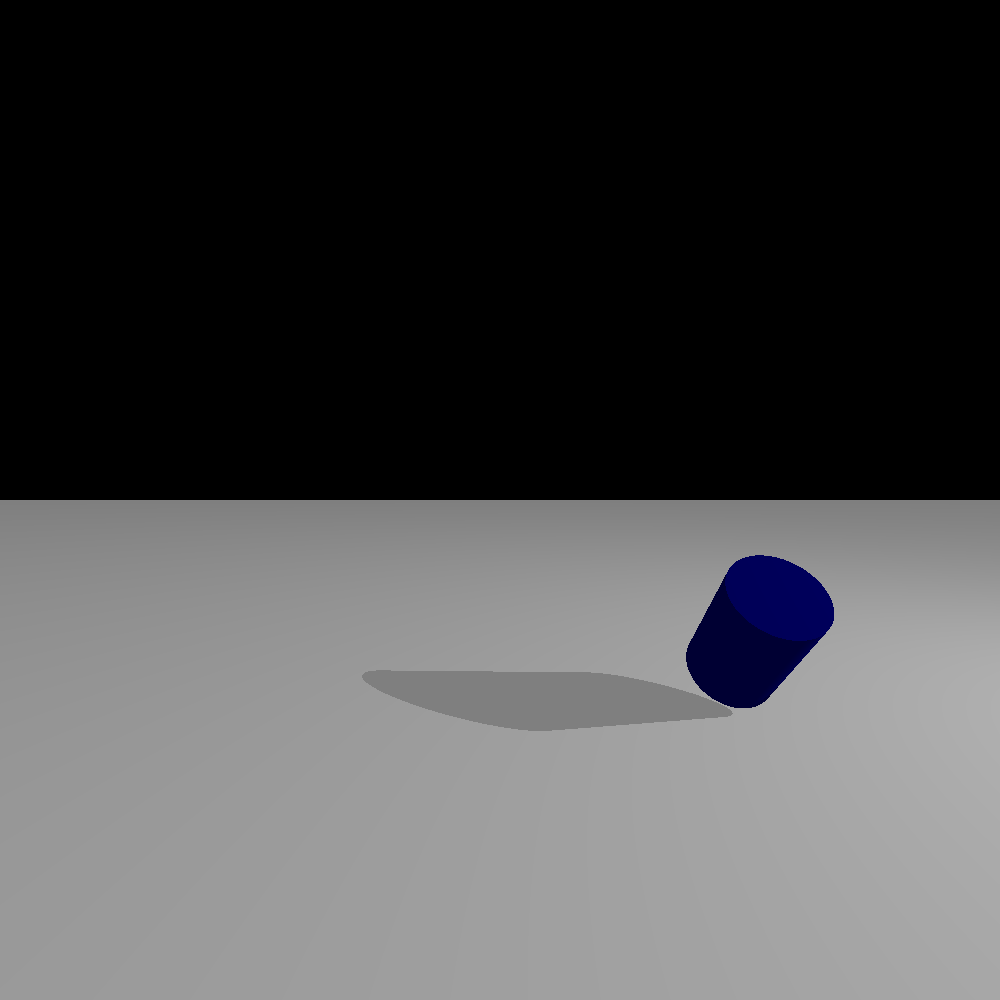
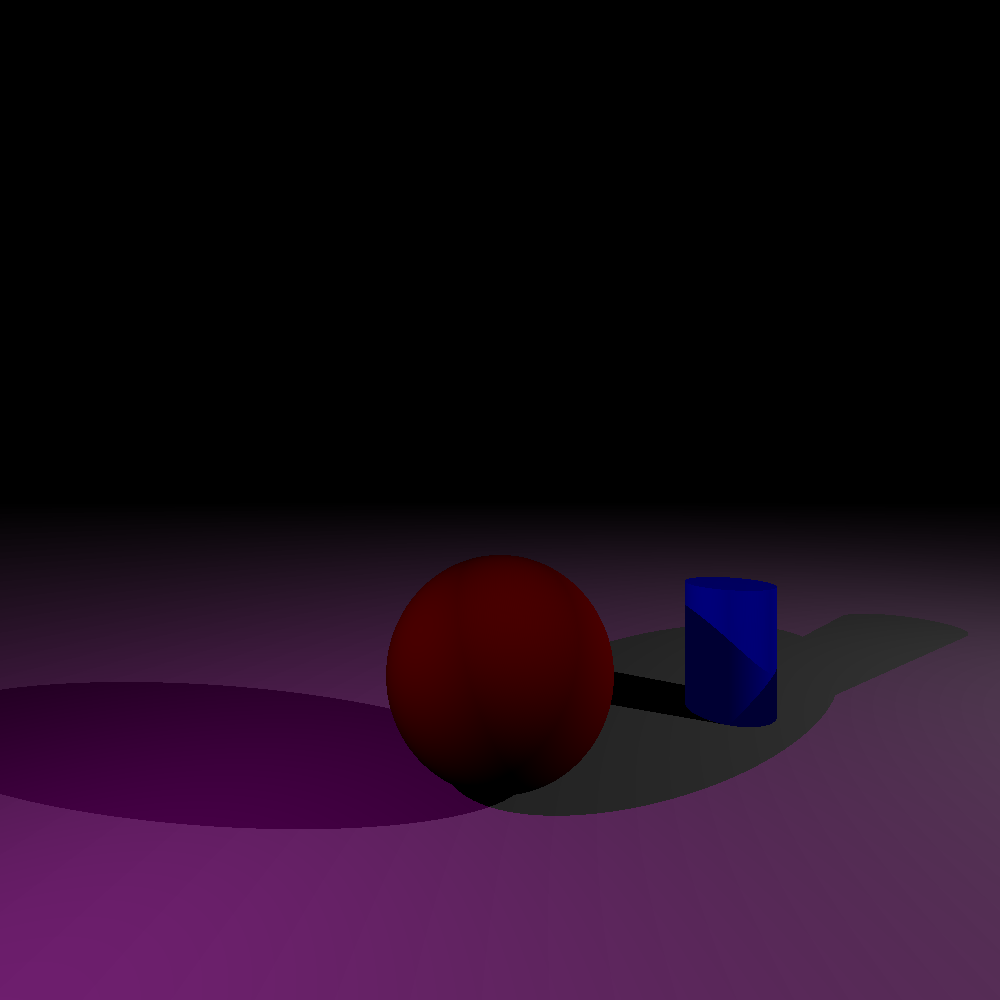
minor update

diff --git a/src/main/Renderer.java b/src/main/Renderer.java
@@ -94,7 +94,7 @@ public class Renderer {
 		// initialize the scene
 		Diffuse d1 = new Diffuse(0.9, 0.0, new Color(255, 0, 0));
 		Diffuse d2 = new Diffuse(0.9, 0.2, Color.BLUE);
-		Diffuse d3 = new Diffuse(0.9, 0.5, Color.white);
+		Diffuse d3 = new Diffuse(1, 0.0, Color.white);
 		Transformation id = Transformation.IDENTITY;
 		Transformation t1 = Transformation.createTranslation(0, -1, 1);
 		Transformation tc = Transformation.createTranslation(0, 0, 10).append(
@@ -105,12 +105,12 @@ public class Renderer {
 		Transformation t3 = Transformation.createTranslation(-4, -4, 3);
 		Transformation t4 = Transformation.createTranslation(4, 4, 12);
 		Transformation t5 = Transformation.createTranslation(-4, 4, 8);
-		Transformation t6 = Transformation.createTranslation(5.5, -4, 12).append(Transformation.createRotationX(-45));
+		Transformation t6 = Transformation.createTranslation(5.5, -5, 12);
 		List<Shape> shapes = new ArrayList<Shape>();
 		List<PointLight> lights = new ArrayList<PointLight>();
 		PointLight light = new PointLight(new Point(20.0, 5.0, 4.0), Color.WHITE);
 		PointLight light2 = new PointLight(new Point(-5.0, 1.0, 4.0), Color.MAGENTA);
-//		shapes.add(new Sphere(tt, 2, d1));
+		shapes.add(new Sphere(tt, 2, d1));
 //		 shapes.add(new Sphere(tt, 3,d2));
 //		 shapes.add(new Sphere(t2, 3, d2));
 //		 shapes.add(new Sphere(t4, 4, d2));
@@ -119,7 +119,7 @@ public class Renderer {
 //		shapes.add(new Triangle(ts, new Point(0.0,0.0,0.0), new Point(0.0, 1.0, 0.0), new Point(1.0, 0.0, 0.0), d1));
 		shapes.add(new Cylinder(t6, d2, 3, 1));
 		lights.add(light);
-//		lights.add(light2);
+		lights.add(light2);
 
 		// render the scene
 		for (int x = 0; x < width; ++x) {
